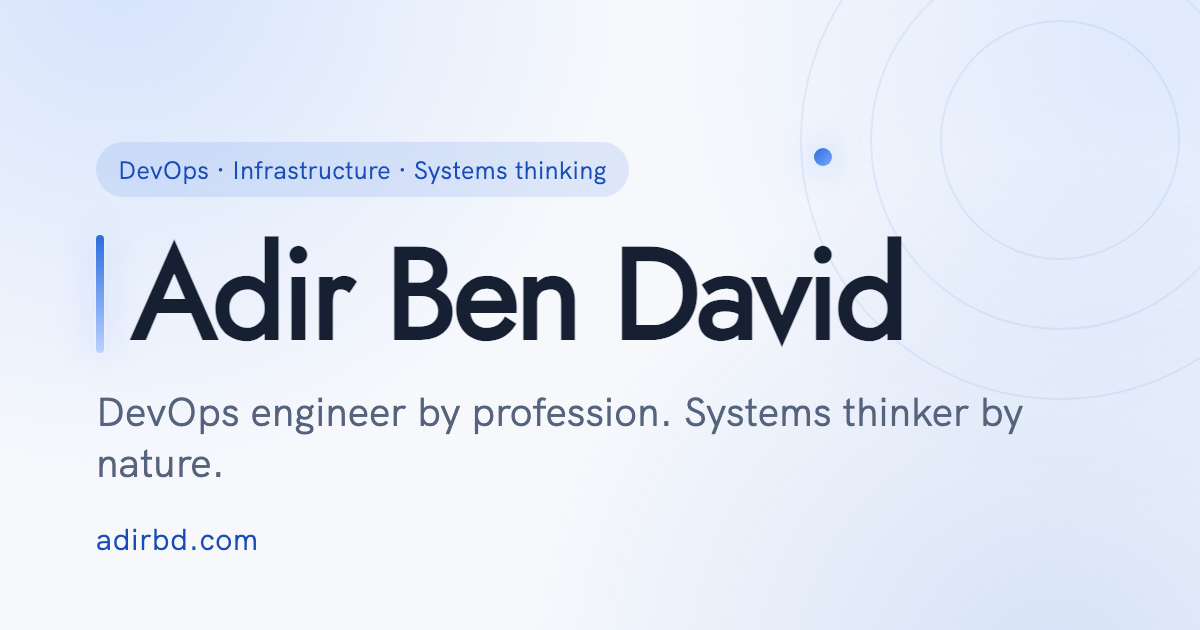
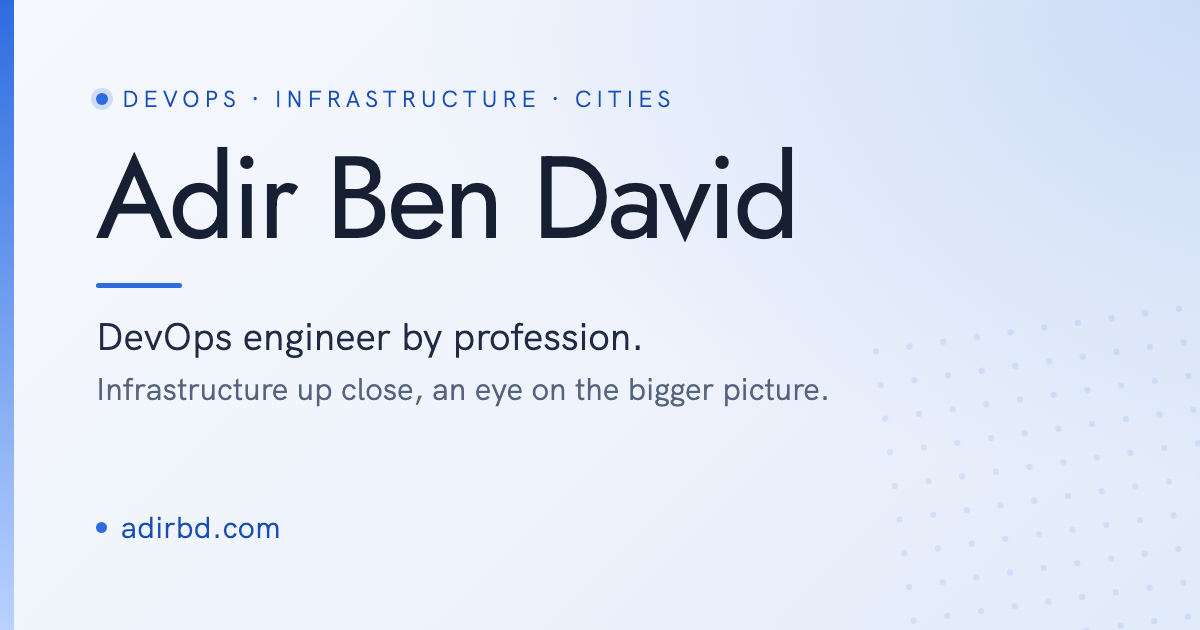
Refresh link-preview share card and home descriptions (#11)
- New og-image.png (1200x630): warm-blue card matching the current site
  (Jost name, brand accent, transit-dot motif), replacing the stale one
  that showed an old hero treatment + a breadcrumb no longer on the site.
- Home meta/og descriptions (EN + HE) moved off the 'systems thinker'
  cliche to the 'bigger picture' framing: how cities, transport, and
  public money turn into things that last.

33/33 e2e tests; sync idempotent; og-image 336KB (<400KB budget).

diff --git a/he/index.html b/he/index.html
@@ -4,7 +4,7 @@
   <meta charset="UTF-8" />
   <meta name="viewport" content="width=device-width, initial-scale=1.0" />
   <title>אדיר בן דוד (Adirbd)</title>
-  <meta name="description" content="אדיר בן דוד, מהנדס DevOps ב־Check Point ואיש מערכות שמתעניין בתחבורה, בערים ובאופן שבו כסף ציבורי הופך למשהו שמחזיק לאורך זמן." />
+  <meta name="description" content="אדיר בן דוד, מהנדס DevOps ב־Check Point, עם עין על התמונה הגדולה: איך ערים, תחבורה וכסף ציבורי הופכים למשהו שמחזיק לאורך זמן." />
   <meta name="robots" content="index,follow,max-image-preview:large,max-snippet:-1,max-video-preview:-1" />
   <link rel="canonical" href="https://www.adirbd.com/he/" />
   <meta name="theme-color" content="#f6f8fc" media="(prefers-color-scheme: light)" />
@@ -22,7 +22,7 @@
   <meta property="og:locale" content="he_IL" />
   <meta property="og:locale:alternate" content="en_US" />
   <meta property="og:title" content="אדיר בן דוד (Adirbd)" />
-  <meta property="og:description" content="אדיר בן דוד, מהנדס DevOps ב־Check Point ואיש מערכות שמתעניין בתחבורה, בערים ובאופן שבו כסף ציבורי הופך למשהו שמחזיק לאורך זמן." />
+  <meta property="og:description" content="אדיר בן דוד, מהנדס DevOps ב־Check Point, עם עין על התמונה הגדולה: איך ערים, תחבורה וכסף ציבורי הופכים למשהו שמחזיק לאורך זמן." />
   <meta property="og:image" content="https://www.adirbd.com/images/og-image.png" />
   <meta property="og:image:alt" content="Adir Ben David" />
   <meta property="og:image:width" content="1200" />
@@ -32,7 +32,7 @@
   <meta name="twitter:site" content="@adirbd" />
   <meta name="twitter:creator" content="@adirbd" />
   <meta name="twitter:title" content="אדיר בן דוד (Adirbd)" />
-  <meta name="twitter:description" content="אדיר בן דוד, מהנדס DevOps ב־Check Point ואיש מערכות שמתעניין בתחבורה, בערים ובאופן שבו כסף ציבורי הופך למשהו שמחזיק לאורך זמן." />
+  <meta name="twitter:description" content="אדיר בן דוד, מהנדס DevOps ב־Check Point, עם עין על התמונה הגדולה: איך ערים, תחבורה וכסף ציבורי הופכים למשהו שמחזיק לאורך זמן." />
   <meta name="twitter:image" content="https://www.adirbd.com/images/og-image.png" />
   <meta name="twitter:image:alt" content="Adir Ben David" />
   <script type="application/ld+json">{
@@ -171,7 +171,7 @@
       "url": "https://www.adirbd.com/he/",
       "name": "אדיר בן דוד (Adirbd)",
       "inLanguage": "he",
-      "description": "אדיר בן דוד, מהנדס DevOps ב־Check Point ואיש מערכות שמתעניין בתחבורה, בערים ובאופן שבו כסף ציבורי הופך למשהו שמחזיק לאורך זמן.",
+      "description": "אדיר בן דוד, מהנדס DevOps ב־Check Point, עם עין על התמונה הגדולה: איך ערים, תחבורה וכסף ציבורי הופכים למשהו שמחזיק לאורך זמן.",
       "isPartOf": {
             "@type": "WebSite",
             "url": "https://www.adirbd.com/",

diff --git a/index.html b/index.html
@@ -4,7 +4,7 @@
   <meta charset="UTF-8" />
   <meta name="viewport" content="width=device-width, initial-scale=1.0" />
   <title>Adir Ben David (Adirbd)</title>
-  <meta name="description" content="Adir Ben David is a DevOps engineer at Check Point, and a systems thinker drawn to transportation, cities, and how public money turns into things that last." />
+  <meta name="description" content="Adir Ben David is a DevOps engineer at Check Point, drawn to the bigger picture: how cities, transport, and public money turn into things that last." />
   <meta name="robots" content="index,follow,max-image-preview:large,max-snippet:-1,max-video-preview:-1" />
   <link rel="canonical" href="https://www.adirbd.com/" />
   <meta name="theme-color" content="#f6f8fc" media="(prefers-color-scheme: light)" />
@@ -22,7 +22,7 @@
   <meta property="og:locale" content="en_US" />
   <meta property="og:locale:alternate" content="he_IL" />
   <meta property="og:title" content="Adir Ben David (Adirbd)" />
-  <meta property="og:description" content="Adir Ben David is a DevOps engineer at Check Point, and a systems thinker drawn to transportation, cities, and how public money turns into things that last." />
+  <meta property="og:description" content="Adir Ben David is a DevOps engineer at Check Point, drawn to the bigger picture: how cities, transport, and public money turn into things that last." />
   <meta property="og:image" content="https://www.adirbd.com/images/og-image.png" />
   <meta property="og:image:alt" content="Adir Ben David" />
   <meta property="og:image:width" content="1200" />
@@ -32,7 +32,7 @@
   <meta name="twitter:site" content="@adirbd" />
   <meta name="twitter:creator" content="@adirbd" />
   <meta name="twitter:title" content="Adir Ben David (Adirbd)" />
-  <meta name="twitter:description" content="Adir Ben David is a DevOps engineer at Check Point, and a systems thinker drawn to transportation, cities, and how public money turns into things that last." />
+  <meta name="twitter:description" content="Adir Ben David is a DevOps engineer at Check Point, drawn to the bigger picture: how cities, transport, and public money turn into things that last." />
   <meta name="twitter:image" content="https://www.adirbd.com/images/og-image.png" />
   <meta name="twitter:image:alt" content="Adir Ben David" />
   <script type="application/ld+json">{
@@ -171,7 +171,7 @@
       "url": "https://www.adirbd.com/",
       "name": "Adir Ben David (Adirbd)",
       "inLanguage": "en",
-      "description": "Adir Ben David is a DevOps engineer at Check Point, and a systems thinker drawn to transportation, cities, and how public money turns into things that last.",
+      "description": "Adir Ben David is a DevOps engineer at Check Point, drawn to the bigger picture: how cities, transport, and public money turn into things that last.",
       "isPartOf": {
             "@type": "WebSite",
             "url": "https://www.adirbd.com/",

diff --git a/scripts/sync_shared.py b/scripts/sync_shared.py
@@ -140,7 +140,7 @@ PAGES = {
     'index.html': {
         'lang': 'en', 'dir': 'ltr', 'home': '/', 'active': '/', 'page_type': 'ProfilePage', 'switch': '/he/', 'switch_from': 'EN', 'switch_to': 'HE',
         'title': 'Adir Ben David (Adirbd)',
-        'description': 'Adir Ben David is a DevOps engineer at Check Point, and a systems thinker drawn to transportation, cities, and how public money turns into things that last.',
+        'description': 'Adir Ben David is a DevOps engineer at Check Point, drawn to the bigger picture: how cities, transport, and public money turn into things that last.',
         'slug': '', 'en_href': f'{SITE_URL}/', 'he_href': '/he/', 'x_default': f'{SITE_URL}/', 'locale': 'en_US', 'locale_alt': 'he_IL'
     },
     'work.html': {
@@ -170,7 +170,7 @@ PAGES = {
     'he/index.html': {
         'lang': 'he', 'dir': 'rtl', 'home': '/he/', 'active': '/he/', 'page_type': 'ProfilePage', 'switch': '/', 'switch_from': 'HE', 'switch_to': 'EN',
         'title': 'אדיר בן דוד (Adirbd)',
-        'description': 'אדיר בן דוד, מהנדס DevOps ב־Check Point ואיש מערכות שמתעניין בתחבורה, בערים ובאופן שבו כסף ציבורי הופך למשהו שמחזיק לאורך זמן.',
+        'description': 'אדיר בן דוד, מהנדס DevOps ב־Check Point, עם עין על התמונה הגדולה: איך ערים, תחבורה וכסף ציבורי הופכים למשהו שמחזיק לאורך זמן.',
         'slug': 'he/', 'en_href': '/', 'he_href': f'{SITE_URL}/he/', 'x_default': '/', 'locale': 'he_IL', 'locale_alt': 'en_US'
     },
     'he/work.html': {
